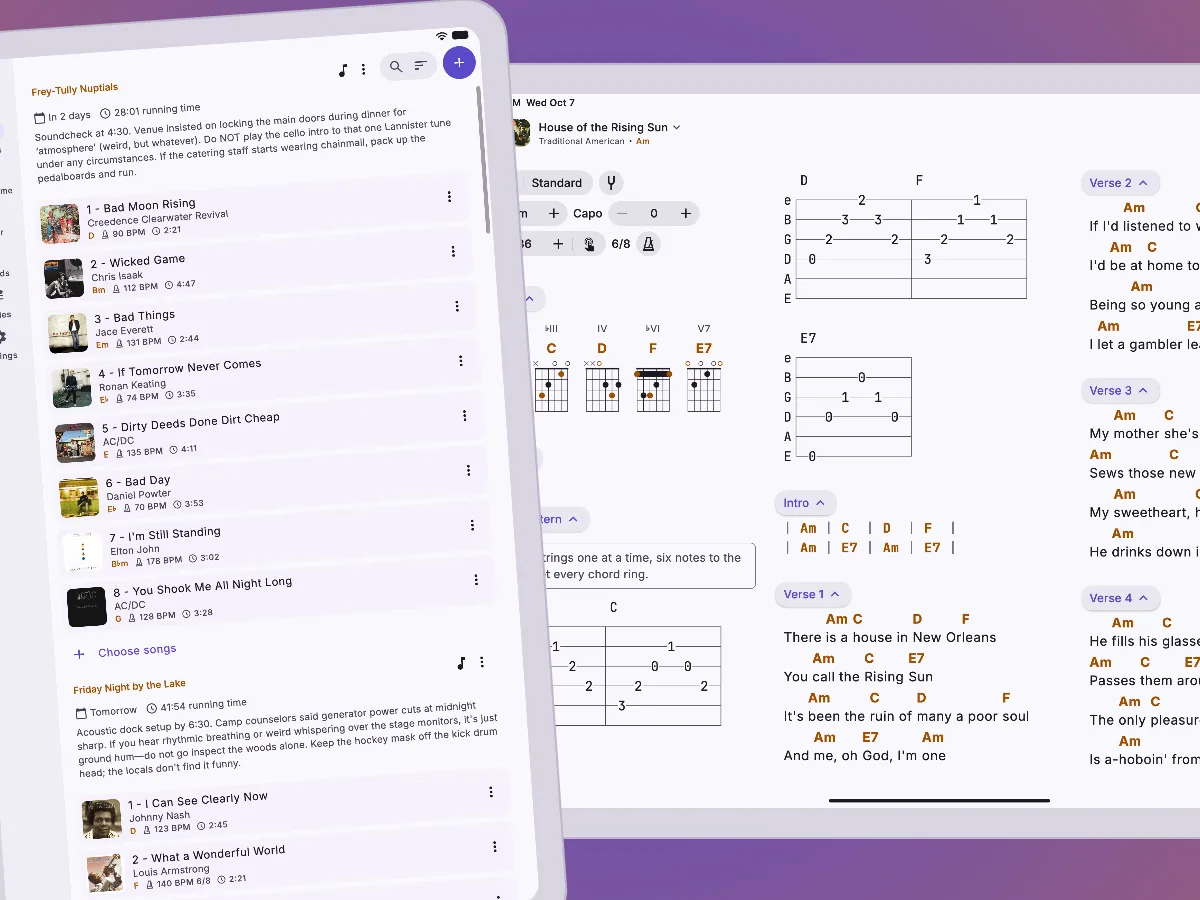
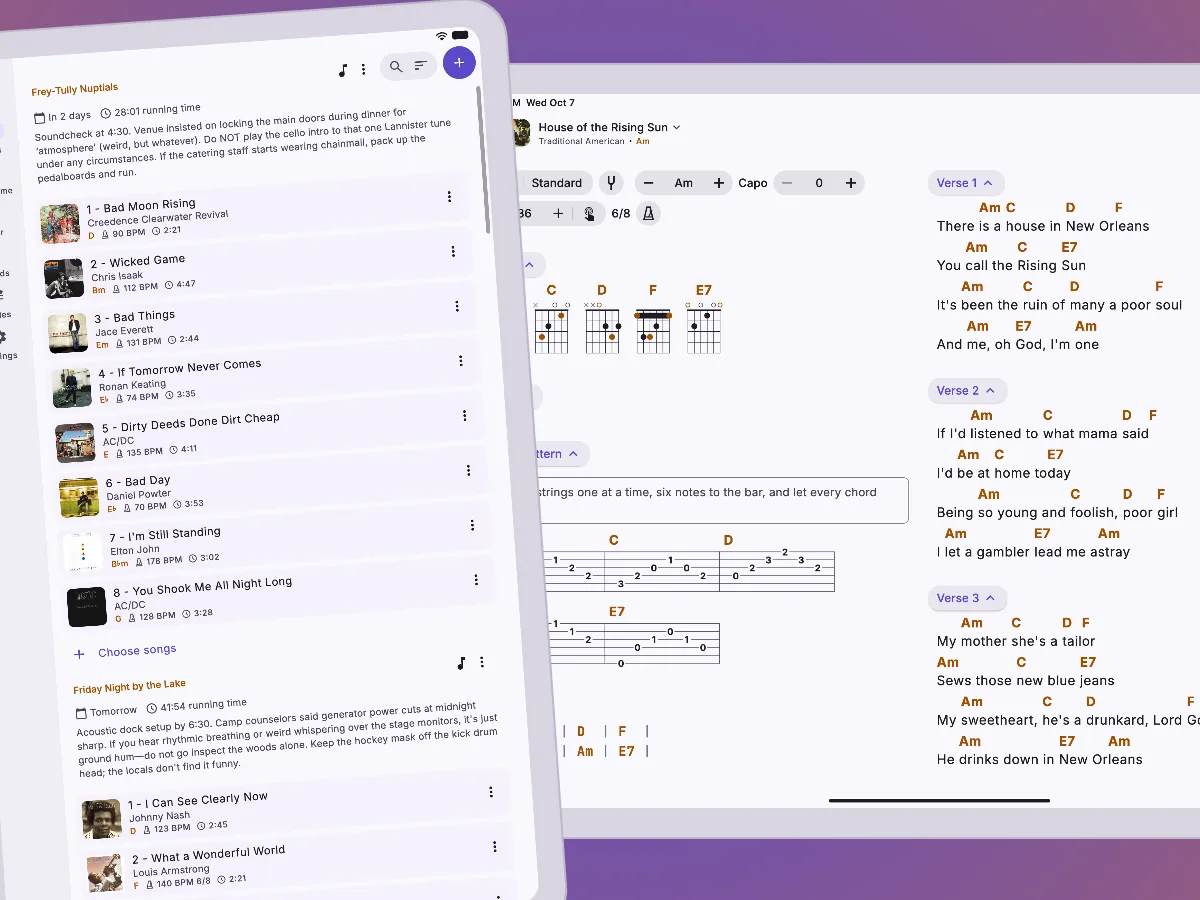
Update the changelog.

diff --git a/documentation/store-listings/mac-app-store/en.md b/documentation/store-listings/mac-app-store/en.md
@@ -18,7 +18,7 @@ sheet, or the wallpaper's colors.
 ## Promotional text (170 characters max)
 
 ```
-New in 5.2: songs that scroll by themselves at their own pace, ABC tunes drawn as sheet music, chord diagrams that follow key changes, and five more languages.
+New in 5.2.1: tabs drawn like sheet music, Nashville and Roman numbers for songs with no written key, Campfire in Hebrew, and better imports of its own PDFs.
 ```
 
 ## Description (4,000 characters max)
@@ -105,12 +105,11 @@ The microphone is used only by the Tuner tab (and the tuner sheet opened from a 
 
 Network use is limited to features the user starts: optional sync with the user's own Dropbox account (Settings → Sync, not needed to review anything else); sharing a song or setlist as a public link in that same Dropbox; opening a shared link, which downloads it from dl.dropboxusercontent.com with no account; cover art for songs, an image downloaded from the address a song names and a search of MusicBrainz and the iTunes Search API, opened by clicking the cover in the "About the song" sheet; and the song details lookup, which searches the same two services. Everything else works offline.
 
-New in 5.2.0, and where to find it:
-- Continuous layout: Settings → Preferences → Song page → Layout (also under Preferences in a song's three-dot menu) switches between Pages and Continuous; the app also asks once, over the first song opened. In Continuous, the play button above the bottom step button starts the scroll, and a Scroll speed slider appears while it plays.
-- Sheet music: the demo song Home on the Range has a Sheet music section, drawn as staff notation from its ABC text on the device by abc2svg, an engraving library bundled with the app and run in its embedded JavaScript engine (no code or content is downloaded). The editor's toolbar has a Sheet music button beside Tab and Grid, and "Share or export" has a Sheet music switch for the PDF.
-- Languages: German, Spanish, French, Italian, and Romanian, picked in Settings → General → Language or followed from the system.
-- Key changes: in a song whose key changes partway through, the chord diagrams at the top of the song are grouped under a heading for each key, and its Scales section suggests a scale for the part in the new key.
-- PDF import: PDFs imported through Import files in the New button's menu on the Songs screen leave out page headers and footers and keep listed chord shapes, repeat signs, and labelled song details.
+New in 5.2.1, and where to find it:
+- Tabs: the demo song House of the Rising Sun has picking patterns as tabs, now drawn with ruled strings and bold fret numbers, on screen and in the PDF ("Share or export" in a song's three-dot menu).
+- Chord notation: with Settings → Preferences → Chords → Chord notation set to Nashville numbers or Roman numerals (also under Preferences in a song's three-dot menu), a song whose file names no key is numbered from the key its chords suggest; removing the {key} line of a demo song in the editor shows it.
+- Hebrew: picked in Settings → General → Language or followed from the system, laid out right to left. Songs written right to left, in any language of the app, are shown, edited, and printed from the right.
+- PDF import: a PDF exported by Campfire and imported through Import files in the New button's menu on the Songs screen keeps more of its sections, tab and grid labels, comments, and chord positions.
 ```
 
 ## App Sandbox Information

diff --git a/documentation/store-listings/app-store/en.md b/documentation/store-listings/app-store/en.md
@@ -30,7 +30,7 @@ Chords, lyrics, and setlists
 ## Promotional text (170 characters max)
 
 ```
-New in 5.2: songs that scroll by themselves at their own pace, ABC tunes drawn as sheet music, chord diagrams that follow key changes, and five more languages.
+New in 5.2.1: tabs drawn like sheet music, Nashville and Roman numbers for songs with no written key, Campfire in Hebrew, and better imports of its own PDFs.
 ```
 
 ## Description (4,000 characters max)
@@ -128,12 +128,11 @@ https://campfire-songbook.com/
 ```
 Campfire has no account and nothing to sign in to. Two public-domain demo songs and a setlist are loaded on first launch, so every feature can be reviewed without adding content. The first launch also opens a short onboarding, which can be skipped.
 
-New in 5.2.0, and where to find it:
-- Continuous layout: Settings → Preferences → Song page → Layout (also under Preferences in a song's three-dot menu) switches between Pages and Continuous; the app also asks once, over the first song opened. In Continuous, the play button above the bottom step button starts the scroll, and a Scroll speed slider appears while it plays.
-- Sheet music: the demo song Home on the Range has a Sheet music section, drawn as staff notation from its ABC text on the device by abc2svg, an engraving library bundled with the app and run in the system's JavaScriptCore (no code or content is downloaded). The editor's toolbar has a Sheet music button beside Tab and Grid, and "Share or export" has a Sheet music switch for the PDF.
-- Languages: German, Spanish, French, Italian, and Romanian, picked in Settings → General → Language or followed from the system.
-- Key changes: in a song whose key changes partway through, the chord diagrams at the top of the song are grouped under a heading for each key, and its Scales section suggests a scale for the part in the new key.
-- PDF import: PDFs imported through Import files in the New button's menu on the Songs screen leave out page headers and footers and keep listed chord shapes, repeat signs, and labelled song details.
+New in 5.2.1, and where to find it:
+- Tabs: the demo song House of the Rising Sun has picking patterns as tabs, now drawn with ruled strings and bold fret numbers, on screen and in the PDF ("Share or export" in a song's three-dot menu).
+- Chord notation: with Settings → Preferences → Chords → Chord notation set to Nashville numbers or Roman numerals (also under Preferences in a song's three-dot menu), a song whose file names no key is numbered from the key its chords suggest; removing the {key} line of a demo song in the editor shows it.
+- Hebrew: picked in Settings → General → Language or followed from the system, laid out right to left. Songs written right to left, in any language of the app, are shown, edited, and printed from the right.
+- PDF import: a PDF exported by Campfire and imported through Import files in the New button's menu on the Songs screen keeps more of its sections, tab and grid labels, comments, and chord positions.
 
 The microphone is used only by the Tuner tab (and the tuner sheet opened from a song), and is asked for only when the user taps the button on that page. It is listened to only while that page is on screen; nothing it hears is recorded, kept, or sent anywhere.
 

diff --git a/.claude/skills/prepare-release/SKILL.md b/.claude/skills/prepare-release/SKILL.md
@@ -231,11 +231,23 @@ them longer). These rules apply to all three.
 **Six bullets at most**, however big the release. A patch has one to three. When there are more than six
 candidates, merge the related ones (one bullet per area, not per commit) and drop the least important rather than
 squeezing them in; a fix that is not worth its own bullet goes into the bullet of the feature it touches, or
-nowhere. Never pad a small release up to six.
+nowhere. Never pad a small release up to six: six is a ceiling, not a budget to fill. A minor convenience (one
+more Settings row, a sharing option) or a change only one platform's few users meet (a Linux package format) gets no
+bullet, even with room left; four strong bullets beat six where the last two dilute them.
 
 **Each bullet is a headline and one sentence.**
 - The **headline** names the change in at most six words, the way the app names it (a Settings row, a menu
-  entry, a screen): `Export a setlist as a zip`, not `Better sharing`.
+  entry, a screen): `Export a setlist as a zip`, not `Better sharing`. A change to how something looks is
+  named by the thing in words any user knows (`Improved tab appearance`), and the description says what it looks
+  like now (`Tabs are drawn like sheet music, with ruled strings and bold fret numbers.`), not by a craft term
+  (`engraved`) or a comparison the user must decode (`Tabs drawn like sheet music`).
+- **Lead with what most users notice.** When a cluster holds several changes, the headline and the start of the
+  description are the one an average user meets (chords numbered from the key a song's chords suggest), never a
+  side detail (a preference's new default). A changed default that existing users will not notice (a minor
+  switch, off for those who never asked for it) is left out entirely rather than headlined.
+- **An area that improved in many small ways is named as the area** (`PDF import improvements`), and its
+  description names what now comes through, without words that promise completeness (`whole`, `intact`,
+  `exactly`, `as it was`): a round trip that is better but not lossless must not read as lossless.
 - The **description** is one sentence of **at most 25 words** (about 160 characters): what is different now,
   then what that lets the user do or spares them — the concrete benefit, not an adjective. Add where to find it
   only when it is not obvious from the headline, and only if it fits the limit. Count the words of every

diff --git a/documentation/store-listings/mac-app-store/he.md b/documentation/store-listings/mac-app-store/he.md
@@ -21,7 +21,7 @@ review notes and App Sandbox information stay in `en.md`.
 ## Promotional text (170 characters max)
 
 ```
-חדש ב־5.2: שירים שנגללים מעצמם בקצב שלהם, שירי ABC שמוצגים כתווים, דיאגרמות אקורדים שעוקבות אחרי שינויי טונליות ועוד חמש שפות.
+חדש ב־5.2.1: טאבים שמצוירים כמו תווים, מספרי נאשוויל וספרות רומיות לשירים בלי טונליות כתובה, Campfire בעברית וייבוא משופר של קובצי ה-PDF שלו.
 ```
 
 ## Description (4,000 characters max)

diff --git a/documentation/store-listings/app-store/he.md b/documentation/store-listings/app-store/he.md
@@ -32,7 +32,7 @@ Campfire: שירון אקורדים
 ## Promotional text (170 characters max)
 
 ```
-חדש ב־5.2: שירים שנגללים מעצמם בקצב שלהם, שירי ABC שמוצגים כתווים, דיאגרמות אקורדים שעוקבות אחרי שינויי טונליות ועוד חמש שפות.
+חדש ב־5.2.1: טאבים שמצוירים כמו תווים, מספרי נאשוויל וספרות רומיות לשירים בלי טונליות כתובה, Campfire בעברית וייבוא משופר של קובצי ה-PDF שלו.
 ```
 
 ## Description (4,000 characters max)

diff --git a/documentation/store-listings/mac-app-store/ro.md b/documentation/store-listings/mac-app-store/ro.md
@@ -20,7 +20,7 @@ Paste into the App Store Connect locale: ro (the Mac version's own fields; the n
 ## Promotional text (170 characters max)
 
 ```
-Nou în 5.2: cântece care se derulează singure în ritmul lor, melodii ABC ca partitură, diagrame de acorduri care urmează schimbările de tonalitate și cinci limbi noi.
+Nou în 5.2.1: tabulaturi desenate ca o partitură, numere Nashville și cifre romane pentru cântece fără tonalitate, Campfire în ebraică și importul mai bun al PDF-urilor.
 ```
 
 ## Description (4,000 characters max)

diff --git a/documentation/store-listings/mac-app-store/es.md b/documentation/store-listings/mac-app-store/es.md
@@ -21,7 +21,7 @@ in `../app-store/es.md`; the review notes and App Sandbox information are single
 ## Promotional text (170 characters max)
 
 ```
-Novedad en 5.2: canciones que avanzan solas a su ritmo, melodías ABC como partitura, diagramas de acordes que siguen los cambios de tonalidad y cinco idiomas más.
+Novedad en 5.2.1: tablaturas dibujadas como partitura, números de Nashville y romanos para canciones sin tonalidad, Campfire en hebreo y mejor importación de sus PDF.
 ```
 
 ## Description (4,000 characters max)

diff --git a/documentation/store-listings/mac-app-store/hu.md b/documentation/store-listings/mac-app-store/hu.md
@@ -20,7 +20,7 @@ Paste into the App Store Connect localization hu (macOS).
 ## Promotional text (170 characters max)
 
 ```
-Újdonságok az 5.2-es verzióban: magától, a saját tempójukban gördülő dalok, ABC-dallamok kottaként, a hangnemváltást követő akkordábrák és öt új nyelv.
+Újdonságok az 5.2.1-es verzióban: kottaként rajzolt tabulatúrák, Nashville- és római számok hangnem nélküli dalokhoz, héber nyelv és jobb import a saját PDF-ekből.
 ```
 
 ## Description (4,000 characters max)

diff --git a/documentation/store-listings/mac-app-store/fr.md b/documentation/store-listings/mac-app-store/fr.md
@@ -20,7 +20,7 @@ Paste into App Store Connect's French localizations: fr-FR and fr-CA.
 ## Promotional text (170 characters max)
 
 ```
-Nouveau en 5.2 : des chansons qui défilent seules à leur rythme, les airs ABC en partition, des diagrammes qui suivent les modulations et cinq langues de plus.
+Nouveau en 5.2.1 : des tablatures dessinées en partition, les chiffres de Nashville et romains pour les chansons sans tonalité, Campfire en hébreu et l'import de ses PDF.
 ```
 
 ## Description (4,000 characters max)

diff --git a/documentation/store-listings/app-store/hu.md b/documentation/store-listings/app-store/hu.md
@@ -32,7 +32,7 @@ Akkordok, dalszövegek, listák
 ## Promotional text (170 characters max)
 
 ```
-Újdonságok az 5.2-es verzióban: magától, a saját tempójukban gördülő dalok, ABC-dallamok kottaként, a hangnemváltást követő akkordábrák és öt új nyelv.
+Újdonságok az 5.2.1-es verzióban: kottaként rajzolt tabulatúrák, Nashville- és római számok hangnem nélküli dalokhoz, héber nyelv és jobb import a saját PDF-ekből.
 ```
 
 ## Description (4,000 characters max)

diff --git a/documentation/store-listings/app-store/ro.md b/documentation/store-listings/app-store/ro.md
@@ -32,7 +32,7 @@ Versuri, acorduri și liste
 ## Promotional text (170 characters max)
 
 ```
-Nou în 5.2: cântece care se derulează singure în ritmul lor, melodii ABC ca partitură, diagrame de acorduri care urmează schimbările de tonalitate și cinci limbi noi.
+Nou în 5.2.1: tabulaturi desenate ca o partitură, numere Nashville și cifre romane pentru cântece fără tonalitate, Campfire în ebraică și importul mai bun al PDF-urilor.
 ```
 
 ## Description (4,000 characters max)

diff --git a/documentation/store-listings/mac-app-store/it.md b/documentation/store-listings/mac-app-store/it.md
@@ -21,7 +21,7 @@ review notes and App Sandbox information stay in `en.md`.
 ## Promotional text (170 characters max)
 
 ```
-Novità della 5.2: canzoni che scorrono da sole al loro ritmo, melodie ABC come spartito, diagrammi che seguono i cambi di tonalità e cinque nuove lingue.
+Novità della 5.2.1: intavolature disegnate come spartito, numeri Nashville e romani per canzoni senza tonalità, Campfire in ebraico e import migliore dei suoi PDF.
 ```
 
 ## Description (4,000 characters max)
